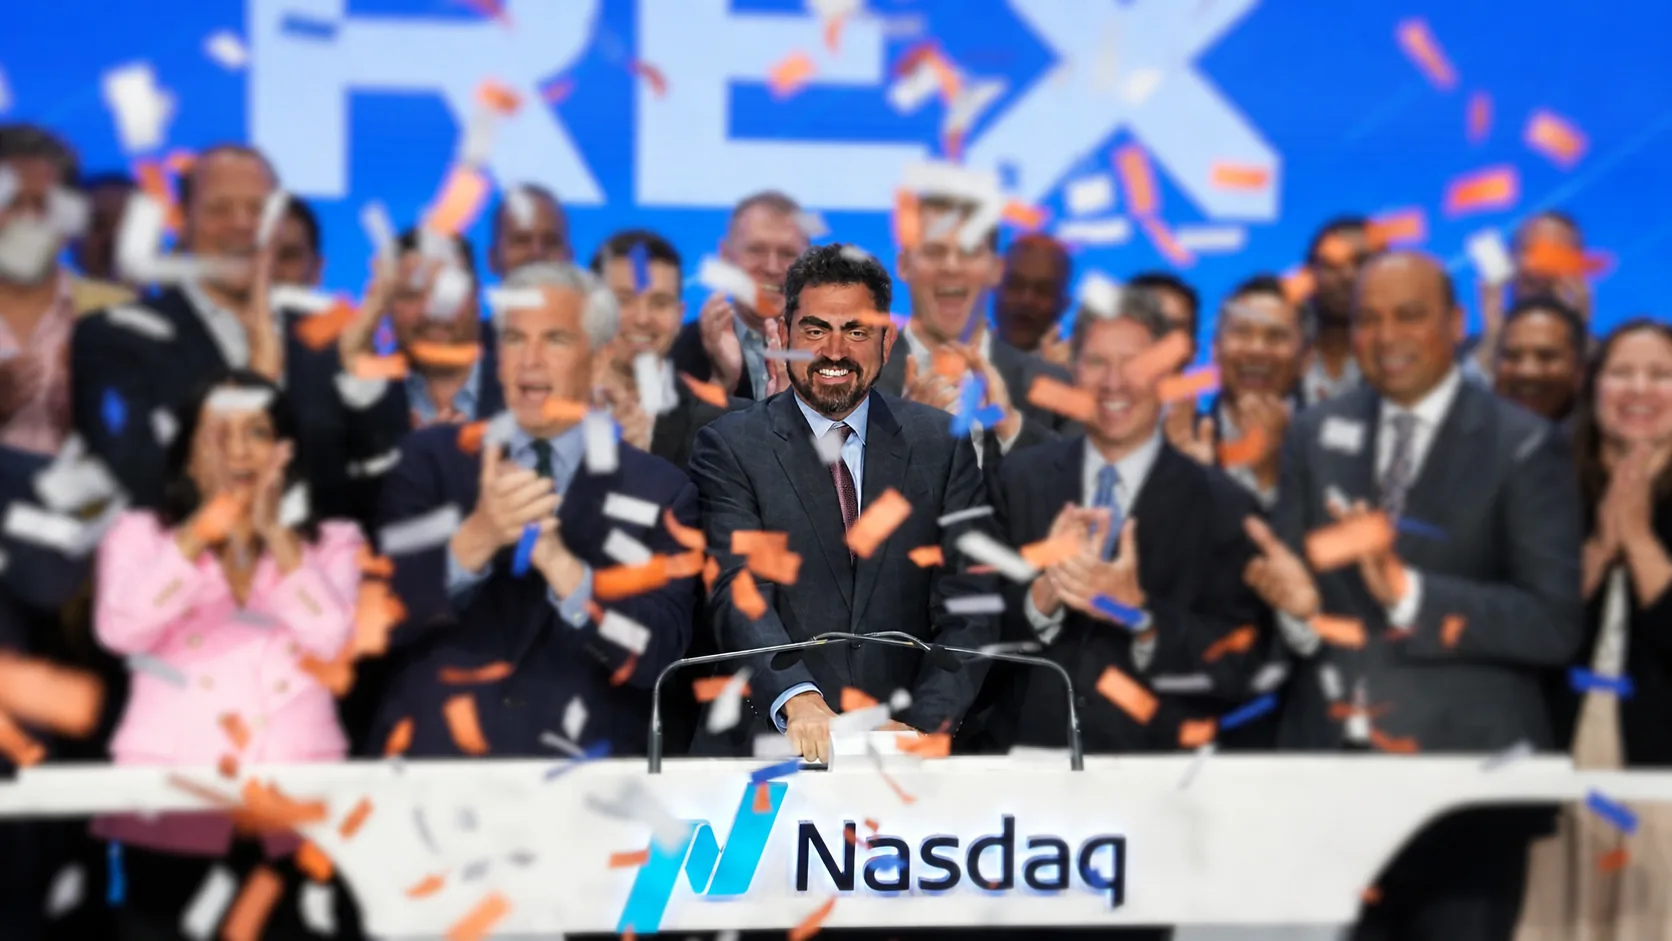
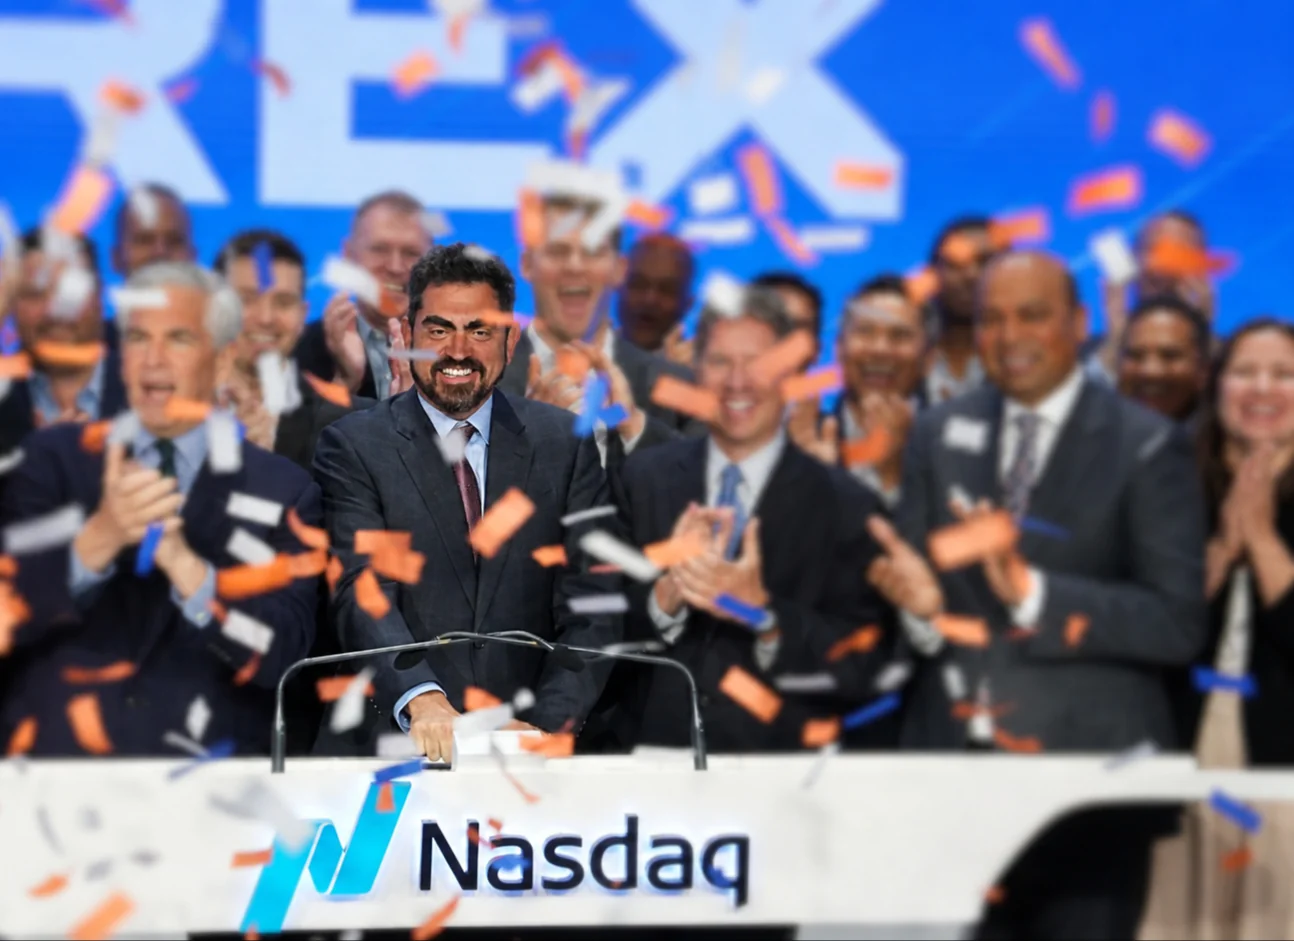
Use webp for founder image and adjust photo height

diff --git a/css/styles.css b/css/styles.css
@@ -2276,8 +2276,7 @@ button { font-family: inherit; cursor: pointer; border: 0; background: none; }
   overflow: hidden;
   background: var(--pale-blue);
   border-radius: 12px;
-  height: auto;
-  aspect-ratio: 16 / 9;
+  height: 520px;
 }
 @media (max-width: 768px) {
   .founder-photo { height: 360px; aspect-ratio: auto; border-radius: 10px; }

diff --git a/index.html b/index.html
@@ -330,7 +330,7 @@
 <section class="section founder-section">
   <div class="container">
     <figure class="founder-photo reveal">
-      <img src="assets/images/GregImage.jpeg" alt="Greg King ringing the Nasdaq bell, surrounded by his team and confetti">
+      <img src="assets/images/GregImage.webp" alt="Greg King ringing the Nasdaq bell, surrounded by his team and confetti">
       <figcaption class="founder-overlay">
         <div class="capture-overlay-inner">
           <p class="founder-quote-text">&ldquo;I built Cubista to capture the context that slips through the cracks in your network&mdash;the connections, patterns, and intel you didn&rsquo;t even know were there, and that usually gets lost. Cubista surfaces it and turns it into your most valuable asset.&rdquo;</p>